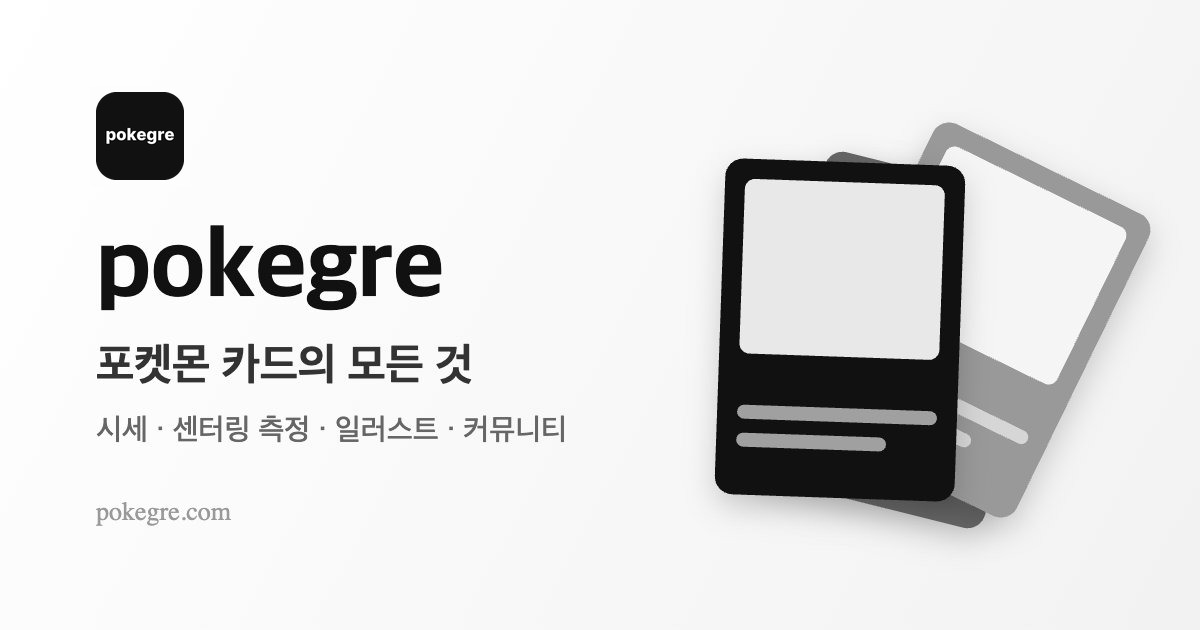
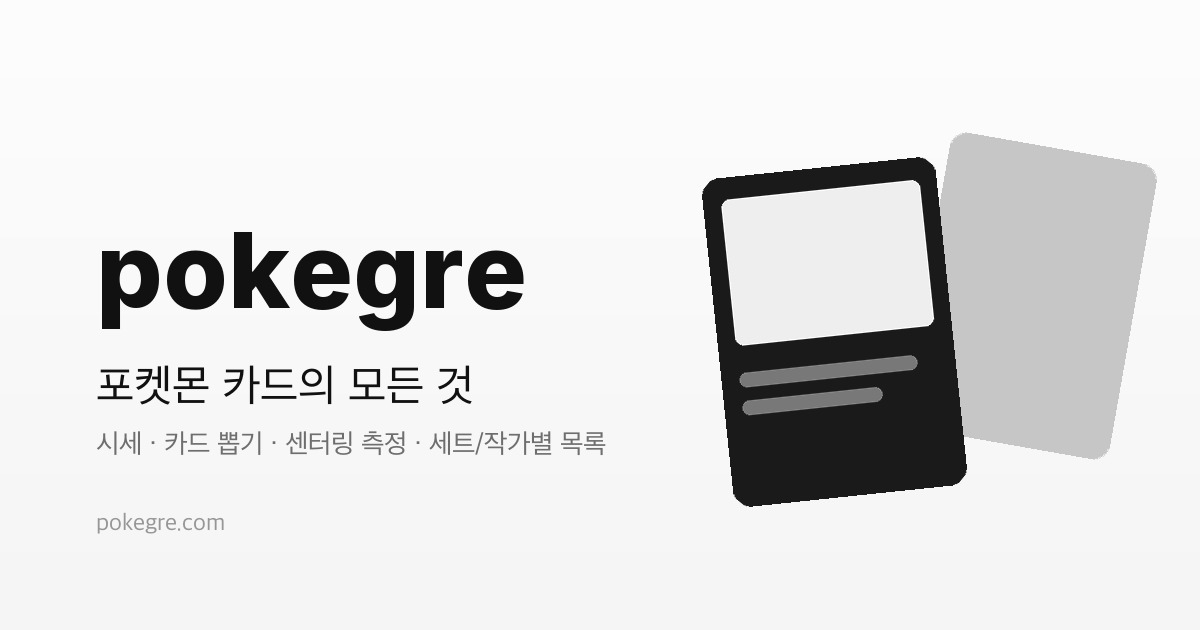
링크 미리보기(og) 정리
카톡·카페에 링크를 붙였을 때 뜨는 그림과 문구를 손봤다.

그림:
- 작은 배지에 "pokegre", 바로 밑 큰 글씨도 "pokegre"라 겹쳐 보였다. 배지를 뺐다.
- 큰 글씨를 로고와 같은 글꼴(Inter ExtraBold)로 바꿨다. 앱 아이콘과 모양이
  다르면 같은 서비스로 안 읽힌다.
- 기능 줄이 옛날 그대로였다("일러스트·커뮤니티") → "카드 뽑기·센터링 측정·세트/작가별 목록"
- scripts/gen-og.py 로 다시 만들 수 있게 했다(전엔 손으로 만든 그림이라 못 고쳤다).

문구 — 기능이 늘었는데 시세 얘기만 있었다:
- <title>  … 센터링 · 일러스트 → … 카드 뽑기 · 센터링 / 한글판 추가
- og·twitter 제목  "포켓몬 카드 시세 · 카드 뽑기 | pokegre"
- og·twitter 설명  뒤에 "카드 뽑기·센터링 측정·세트별 목록까지" 추가
  (카톡은 두 줄까지만 보여서 핵심을 앞에 뒀다)

diff --git a/index.html b/index.html
@@ -8,10 +8,10 @@
     <meta name="theme-color" content="#111111" />
     <meta name="viewport" content="width=device-width, initial-scale=1.0" />
 
-    <title>포켓몬 카드 시세 · 센터링 · 일러스트 | pokegre — 일본판·북미판</title>
+    <title>포켓몬 카드 시세 · 카드 뽑기 · 센터링 | pokegre — 일본판·북미판·한글판</title>
     <meta
       name="description"
-      content="포켓몬 카드 시세를 한곳에서. 스니커덩크 일본 실거래가와 이베이 PSA 등급별 낙찰가를 한국어로 확인하세요. 카드 이름·번호로 검색하거나 사진으로도 찾을 수 있어요."
+      content="포켓몬 카드 시세를 한곳에서. 스니커덩크 일본 실거래가와 이베이 등급별 낙찰가를 한국어로 확인하세요. 카드 이름·번호로 검색하거나 사진으로도 찾을 수 있고, 카드 뽑기·센터링 측정·세트별·작가별 목록도 있습니다."
     />
     <meta name="robots" content="index, follow" />
     <link rel="canonical" href="https://pokegre.com/" />
@@ -23,10 +23,10 @@
          링크가 '진짜 사이트'처럼 보여서 클릭률이 오른다. -->
     <meta property="og:type" content="website" />
     <meta property="og:site_name" content="pokegre" />
-    <meta property="og:title" content="포켓몬 카드 시세 | pokegre" />
+    <meta property="og:title" content="포켓몬 카드 시세 · 카드 뽑기 | pokegre" />
     <meta
       property="og:description"
-      content="스니커덩크 일본 실거래가와 이베이 PSA 등급별 낙찰가를 한국어로 한눈에."
+      content="스니커덩크 일본 실거래가와 이베이 등급별 낙찰가를 한국어로. 카드 뽑기·센터링 측정·세트별 목록까지."
     />
     <meta property="og:url" content="https://pokegre.com/" />
     <meta property="og:image" content="https://pokegre.com/og.jpg" />
@@ -34,10 +34,10 @@
     <meta property="og:image:height" content="630" />
     <meta property="og:locale" content="ko_KR" />
     <meta name="twitter:card" content="summary_large_image" />
-    <meta name="twitter:title" content="포켓몬 카드 시세 | pokegre" />
+    <meta name="twitter:title" content="포켓몬 카드 시세 · 카드 뽑기 | pokegre" />
     <meta
       name="twitter:description"
-      content="스니커덩크 일본 실거래가와 이베이 PSA 등급별 낙찰가를 한국어로 한눈에."
+      content="스니커덩크 일본 실거래가와 이베이 등급별 낙찰가를 한국어로. 카드 뽑기·센터링 측정·세트별 목록까지."
     />
     <meta name="twitter:image" content="https://pokegre.com/og.jpg" />
   </head>

diff --git a/scripts/gen-og.py b/scripts/gen-og.py
@@ -1,0 +1,96 @@
+# 링크 미리보기 이미지(og.jpg) 생성기.
+#
+# 카톡·네이버 카페·트위터에 pokegre.com 링크를 붙였을 때 뜨는 그림이다.
+# 1200x630이 표준이고, 대부분 가로로 잘리므로 중요한 건 왼쪽 위에 둔다.
+#
+# 글자 로고는 favicon.svg 와 같은 Inter ExtraBold 를 쓴다 — 미리보기와 앱 아이콘의
+# "pokegre" 모양이 다르면 같은 서비스로 안 보인다.
+#
+# 사용법: python3 scripts/gen-og.py
+
+import os
+from PIL import Image, ImageDraw, ImageFont
+
+HERE = os.path.dirname(os.path.abspath(__file__))
+LOGO_FONT = os.path.join(HERE, 'Inter-ExtraBold.ttf')      # 로고(영문)
+KO_FONT = '/System/Library/Fonts/AppleSDGothicNeo.ttc'      # 한글
+OUT = os.path.join(HERE, '..', 'public', 'og.jpg')
+
+W, H = 1200, 630
+INK = (17, 17, 17)
+GRAY = (110, 110, 110)
+FAINT = (150, 150, 150)
+
+TITLE = 'pokegre'
+LEAD = '포켓몬 카드의 모든 것'
+FEATURES = '시세 · 카드 뽑기 · 센터링 측정 · 세트/작가별 목록'
+URL = 'pokegre.com'
+
+
+def ko(size, bold=False):
+    f = ImageFont.truetype(KO_FONT, size)
+    if bold:
+        try:
+            f.set_variation_by_name('Bold')
+        except Exception:
+            pass
+    return f
+
+
+def rounded(d, box, r, fill, rot=0, canvas=None):
+    """회전이 필요한 카드는 따로 그려 붙인다."""
+    x0, y0, x1, y1 = box
+    w, h = int(x1 - x0), int(y1 - y0)
+    layer = Image.new('RGBA', (w, h), (0, 0, 0, 0))
+    ImageDraw.Draw(layer).rounded_rectangle([0, 0, w - 1, h - 1], radius=r, fill=fill)
+    if rot:
+        layer = layer.rotate(rot, expand=True, resample=Image.BICUBIC)
+    canvas.paste(layer, (int(x0), int(y0)), layer)
+
+
+img = Image.new('RGB', (W, H), (252, 252, 252))
+d = ImageDraw.Draw(img)
+
+# 아주 옅은 세로 그라데이션. 완전 흰색이면 카톡 배경과 붙어 경계가 사라진다.
+for y in range(H):
+    v = 252 - int(8 * y / H)
+    d.line([(0, y), (W, y)], fill=(v, v, v))
+
+# ── 오른쪽 카드 그림 ─────────────────────────────────────────────────────────
+# 뒤 카드(연회색) → 앞 카드(검정). 실제 카드를 흉내 내지 않고 형태만 쓴다.
+rounded(d, (900, 130, 900 + 210, 130 + 300), 16, (198, 198, 198, 255), rot=-10, canvas=img)
+rounded(d, (700, 155, 700 + 235, 155 + 330), 18, (26, 26, 26, 255), rot=6, canvas=img)
+
+# 앞 카드 안쪽(그림칸 + 글줄) — 카드처럼 보이게 하는 최소한의 요소만.
+inner = Image.new('RGBA', (235, 330), (0, 0, 0, 0))
+di = ImageDraw.Draw(inner)
+di.rounded_rectangle([18, 22, 217, 168], radius=8, fill=(238, 238, 238, 255))
+di.rounded_rectangle([18, 196, 196, 210], radius=7, fill=(120, 120, 120, 255))
+di.rounded_rectangle([18, 224, 158, 238], radius=7, fill=(120, 120, 120, 255))
+inner = inner.rotate(6, expand=True, resample=Image.BICUBIC)
+img.paste(inner, (700, 155), inner)
+
+# ── 왼쪽 글 ─────────────────────────────────────────────────────────────────
+X = 96
+
+# 로고(글자). 앱 아이콘과 같은 글꼴이라 같은 서비스로 읽힌다.
+f_logo = ImageFont.truetype(LOGO_FONT, 104)
+b = d.textbbox((0, 0), TITLE, font=f_logo)
+d.text((X - b[0], 232 - b[1]), TITLE, font=f_logo, fill=INK)
+logo_bottom = 232 + (b[3] - b[1])
+
+f_lead = ko(44, bold=True)
+b = d.textbbox((0, 0), LEAD, font=f_lead)
+d.text((X - b[0], logo_bottom + 34 - b[1]), LEAD, font=f_lead, fill=INK)
+lead_bottom = logo_bottom + 34 + (b[3] - b[1])
+
+f_feat = ko(27)
+b = d.textbbox((0, 0), FEATURES, font=f_feat)
+d.text((X - b[0], lead_bottom + 26 - b[1]), FEATURES, font=f_feat, fill=GRAY)
+
+f_url = ko(24)
+b = d.textbbox((0, 0), URL, font=f_url)
+d.text((X - b[0], H - 118 - b[1]), URL, font=f_url, fill=FAINT)
+
+img.save(OUT, quality=92, optimize=True)
+print(f'og.jpg  {W}x{H}  {os.path.getsize(OUT)//1024}KB')
